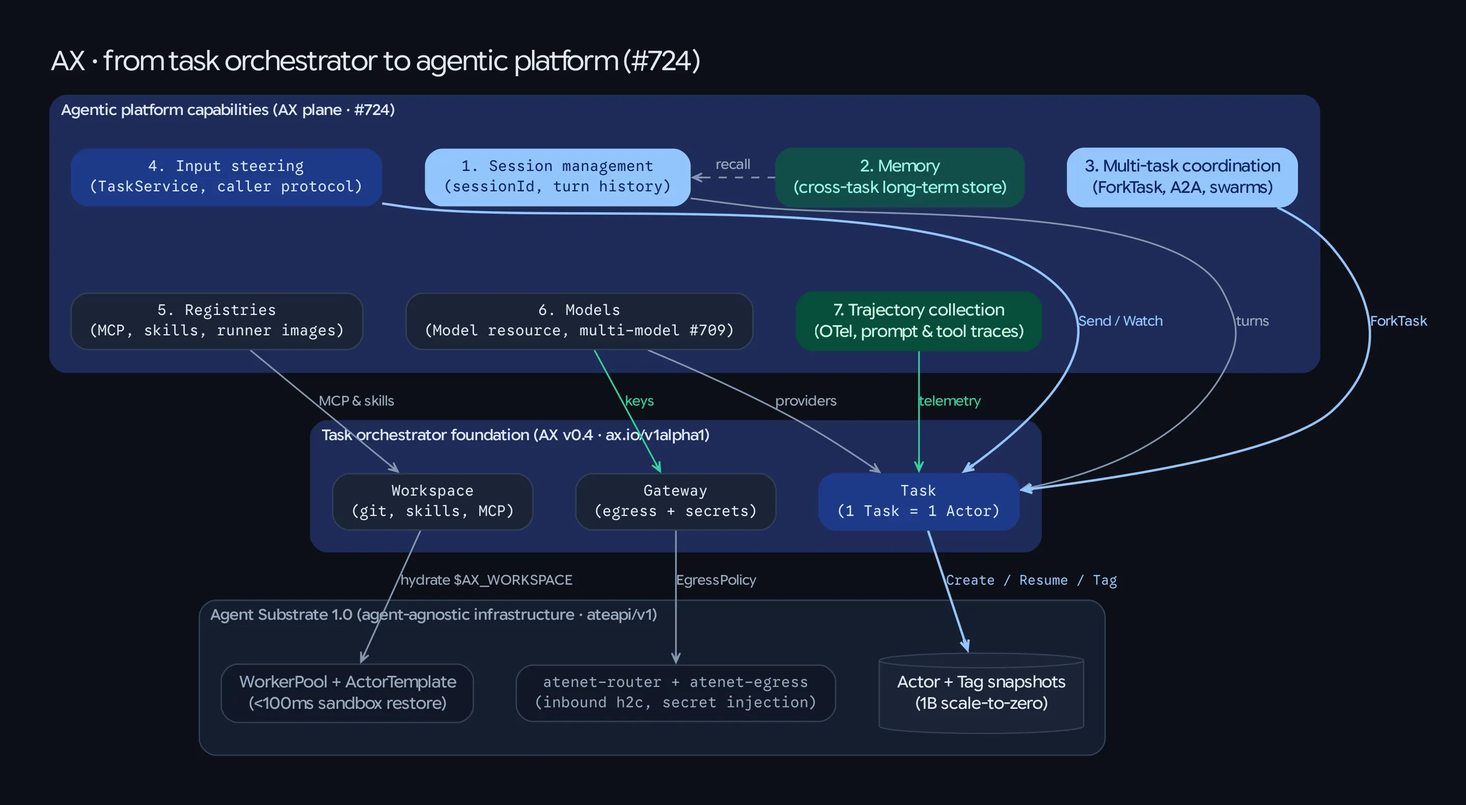
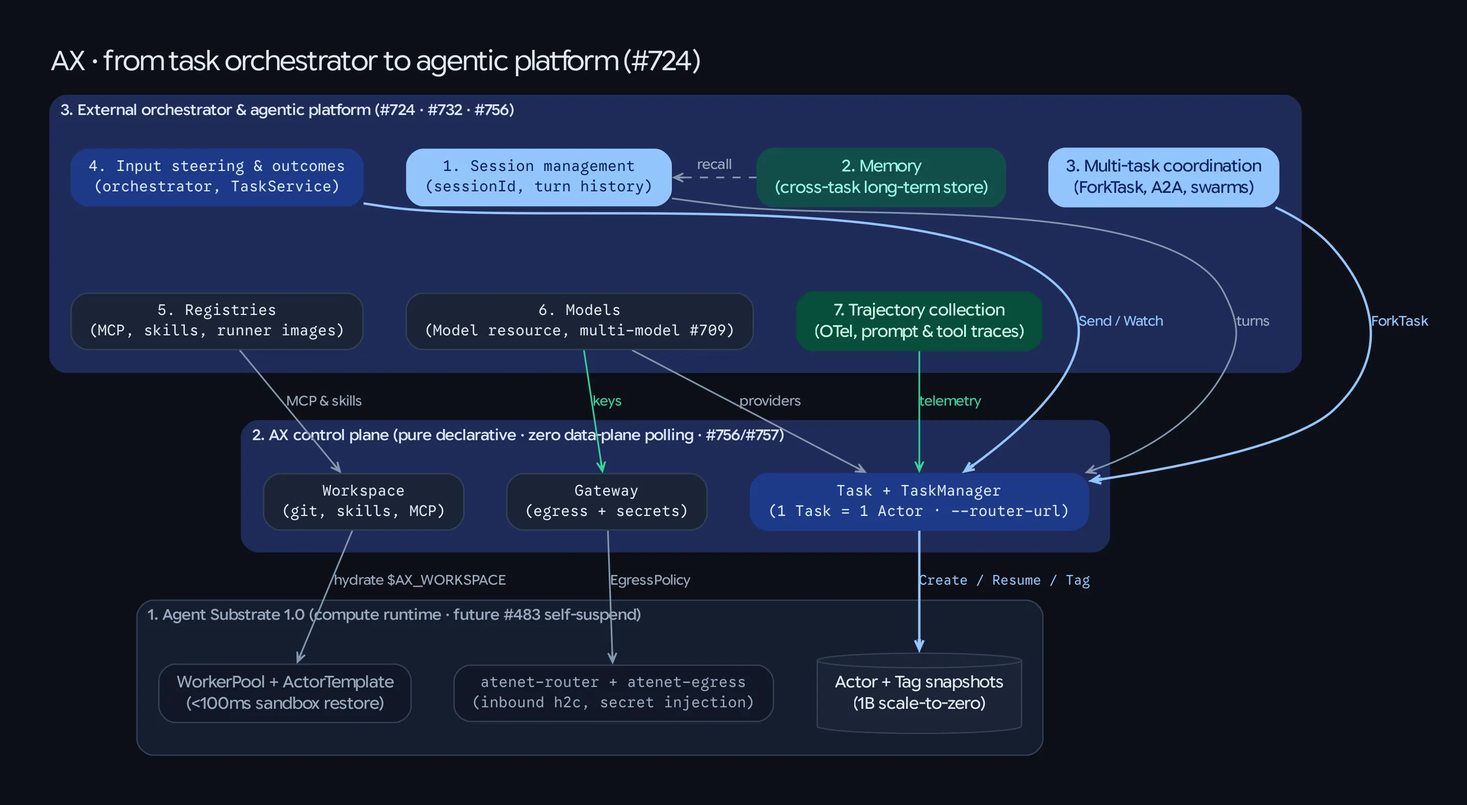
docs(concepts): refine to 3-layer stack for #756 (no TaskOutcome/Completed/Failed), #757 (--router-url), and substrate#483
Follows merged google/ax#756 (39172e4), #757 (d2e8a08), and closure of
#690/#743:
- diagrams/03-settled-task-lifecycle.dot: separates AX Control Plane
  TaskState (Queued, Running, Suspended, Crashed; zero data-plane
  polling) from External Orchestrator / Agent Protocol (Idle,
  RequiresAction, Completed/Failed).
- concepts/01, 04 & diagrams/05: sharpens the two-plane boundary into
  a 3-layer stack (Agent Substrate 1.0 -> AX Control Plane -> External
  Orchestrator & Agentic Platform).
- concepts/02, 03, README, okf/concepts.md: removes deleted FAILED=201
  and COMPLETED=202, notes --router-url on ax-server vs ATENET_ROUTER_ADDR
  on ax ssh (#757), and cites agent-substrate/substrate#483 (actor
  self-suspend).

diff --git a/concepts/04-from-orchestrator-to-platform.md b/concepts/04-from-orchestrator-to-platform.md
@@ -9,23 +9,23 @@
 
 ---
 
-## 1. The Clean Layer Boundary: Orthogonal Outside Task Execution
+## 1. The Clean Three-Layer Boundary (`#732`, `#756`)
 
-The shortest way to separate the two projects is by **where they meet—and where they don't** ([`google/ax#732`](https://github.com/google/ax/pull/732)):
+The shortest way to separate the layers is by **where they meet—and where they don't** ([`google/ax#732`](https://github.com/google/ax/pull/732), [`google/ax#756`](https://github.com/google/ax/pull/756)):
 
-- **Agent Substrate is the compute runtime layer.** It schedules untrusted sandboxes (`Actor`s) onto pre-warmed `WorkerPool` Pods from immutable container classes (`ActorTemplate`s), restores them in `<100 ms`, suspends/resumes and checkpoints them (`Tag`s), routes inbound HTTP/gRPC traffic by logical ID (`atenet-router`), and mediates outbound network access and secret header injection (`atenet-egress`). It deliberately knows *almost nothing* about agents—no prompts, LLMs, sessions, memory, MCP tools, skills, or multi-agent graphs.
-- **AX and Agent Substrate intersect *only* at task execution.** AX runs each `Task` on Substrate (`1 Task = 1 Actor`), and everything else in AX—declarative specs (`Task`, `Workspace`, `Model`, `Gateway`), runner/launcher contracts (`ax-runner` / `ax-launcher`, `#711`, `$AX_WORKSPACE` `#723`), sessions, memory, multi-task coordination, input steering, registries, models, and trajectory collection—is **orthogonal** to Substrate. Keeping that boundary narrow is also what lets AX stay portable across Google-internal infrastructure, customer Kubernetes clusters, on-prem environments, and zero-Kubernetes local runtimes (`ate-local`, `#712`).
+1. **Agent Substrate 1.0 (Compute Runtime):** Schedules untrusted sandboxes (`Actor`s) onto pre-warmed `WorkerPool` Pods from immutable container classes (`ActorTemplate`s), restores them in `<100 ms`, suspends/resumes and checkpoints them (`Tag`s), routes inbound HTTP/gRPC traffic by logical ID (`atenet-router`), mediates outbound network access and secret header injection (`atenet-egress`), and will allow finished actors to self-suspend (`agent-substrate/substrate#483`). It deliberately knows *almost nothing* about agents.
+2. **AX Control Plane (Pure Declarative Control):** Intersects Substrate *only* at task execution (`1 Task = 1 Actor`), managing declarative specs (`Task`, `Workspace`, `Model`, `Gateway`), `TaskManager` (`#730`), router-only task push (`--router-url`, `#700`/`#757`), runner/launcher contracts (`ax-runner` / `ax-launcher` `#734`, `$AX_WORKSPACE` `#723`), and control-plane `TaskState` (`QUEUED` + live `ActorState` + `Ready` conditions)—with **zero data-plane polling** (`#756`).
+3. **External Orchestrator & Agentic Platform:** Owns everything above raw execution—task outcomes, completion/retry policy, suspend/resume scheduling, sessions, memory, multi-task coordination, input steering, registries, models, and trajectory collection (`#724`, `#732`, `#756`). Keeping the control plane narrow is what lets AX stay portable across Google-internal infrastructure, customer Kubernetes clusters, on-prem environments, and zero-Kubernetes local runtimes (`ate-local`, `#712`).
 
 ### Responsibility Matrix
 
-| Concern | Agent Substrate `1.0` (`ateapi/v1`) | AX (`ax.io/v1alpha1`) |
-|---|---|---|
-| **Core primitive** | `ActorTemplate`, `Actor`, `Tag`, `WorkerPool`, `EgressPolicy` | `Task`, `Workspace`, `Model`, `Gateway` (+ emerging `Session`, `Memory`, `Agent`) |
-| **Isolation & scheduling** | gVisor / microVM sandboxes, OverlayFS image cache, `<100 ms` wake-on-request | Never schedules Pods or manages hypervisors; delegates execution via `Control` gRPC (`ate-local` swaps the backend locally) |
-| **Lifecycle & state** | Actor states (`RESUMING`, `RUNNING`, `SUSPENDING`, `SUSPENDED`, `CRASHED`, `DELETING`, `REVERTING`), durable disk snapshots, future self-suspend (`substrate#450`) | Aligns `TaskState < 200` 1-to-1 to Substrate `ActorState` (`#731`), cold-start resume invariant (`#683`); leaves higher-level progress/completion to callers & agent protocols rather than server-side status polling (`#690`/`#743`) |
-| **Network & secrets** | SPIFFE mTLS, `atenet-router` request parking, `atenet-egress` TLS secret swap | Translates declarative `Gateway` + `Model` credentials into per-actor `EgressPolicy` rules; reaches actors exclusively via `atenet-router` (`#700`); zero secrets in `spec.env` |
-| **Inside the sandbox** | Boots PID 1 from `ActorTemplate` image with zero opinion on contents | Mounts `/opt/ax/ax-runner` (`#620`), hydrates Git/skills/MCP into `$AX_WORKSPACE` (`#723`), invokes `/usr/local/bin/ax-launcher` (`#734`) |
-| **Multi-turn & agent semantics** | None—an actor is just an HTTP/gRPC endpoint on port 80 | Sessions, long-term memory, steering (`TaskService`), multi-task coordination, registries, models, and trajectories (`#724`) |
+| Concern | 1. Agent Substrate `1.0` (`ateapi/v1`) | 2. AX Control Plane (`ax.io/v1alpha1`) | 3. External Orchestrator / Platform (`#724`, `#756`) |
+|---|---|---|---|
+| **Core primitive** | `ActorTemplate`, `Actor`, `Tag`, `WorkerPool`, `EgressPolicy` | `Task`, `Workspace`, `Model`, `Gateway` | Orchestrators (AX Central, CI, A2A/MCP), `Session`, `Memory`, `Agent` |
+| **Isolation & scheduling** | gVisor / microVM sandboxes, OverlayFS image cache, `<100 ms` wake-on-request | Never schedules Pods; delegates via `Control` gRPC (`ate-local` swaps locally) | Decides *when* to create, fork, suspend, resume, or promote tasks |
+| **Lifecycle & state** | `ActorState` (`RESUMING`..`REVERTING`), durable snapshots, future self-suspend (`substrate#483`) | `QUEUED (200)` + live `ActorState` (`#731`) + `Ready` conditions; **zero data-plane fields or polling** (`#756`) | Owns `Idle`/`RequiresAction`/`Completed`/`Failed`, exit markers (`#738`), and retry policy |
+| **Network & secrets** | SPIFFE mTLS, `atenet-router` request parking, `atenet-egress` TLS secret swap | Translates `Gateway` + `Model` creds into `EgressPolicy`; pushes via `--router-url` (`#757`) | Talks to running sandboxes inbound over `atenet-router` port 80 (`ax ssh`, A2A, `TaskService`) |
+| **Inside the sandbox** | Boots PID 1 from `ActorTemplate` with zero opinion on contents | Mounts `/opt/ax/ax-runner` (`#620`), hydrates `$AX_WORKSPACE` (`#723`), invokes `ax-launcher` (`#734`) | Agent harnesses, skills, MCP servers, session files, and structured telemetry |
 
 ---
 
@@ -38,7 +38,7 @@ AX starts as a crisp task orchestrator because a cheap, suspendable, strongly is
 | **1** | **Session management** | Substrate snapshots raw bytes on disk; it has no notion of conversation turns, session IDs, or transcript history across `suspend`/`resume`. AX models multi-turn conversations (`spec.sessionId`, `AX_SESSION_FILE`) so users and harnesses resume coherent threads across cold process restarts (`#683`). | `docs/roadmap.md §5`, `#621` (`AX_SESSION_FILE`), `#670` (Hero Demo Step 3 Turn 2) | [`genkit/`](../genkit/README.md) (persisted A2A `contextId` across `suspend`/`resume`), [`hero-demo/`](../hero-demo/README.md) Step 3 |
 | **2** | **Memory** | Per-task `/workspace` snapshots and `Tag`s scope state to a single task lineage. Long-term **Memory** outlives any individual `Task`, giving agents scoped storage and retrieval shared across sessions and tasks without forcing every task to fork one monolithic filesystem. | `docs/roadmap.md §5` (*Sessions and Memory*) | Gap to prototype post-`#692`; complements per-task snapshots & OKF knowledge bundles (`okf/`) |
 | **3** | **Multi-task coordination** | Real agentic work fans out into trees and swarms—planning, delegating, retrying, and comparing speculative branches (`docs/concepts.md`). AX layers cheap task branching (`ForkTask` over Substrate `Tag`s), parent-child lineage (`status.parentTask`), and inter-task communication protocols (`Agent` specs, A2A/MCP bridges) atop Substrate's `atenet-router`. | `#669`/`#670` (`ForkTask`), `#696` (stateless `Workspace`), `docs/roadmap.md §2–3` | [`swarm/01..08`](../swarm/README.md), [`genkit/01–02`](../genkit/README.md) (EGM panel & in-cluster MCP$\rightarrow$A2A delegation), [`dgem/03`](../dgem/README.md) (specialist router) |
-| **4** | **Input steering** | Autonomous agents are rarely one-shot shell scripts: they pause for clarification, request tool approvals, or accept mid-run course corrections. Rather than polling a coarse status file from `ax-server` (`#690`/`#743`), AX keeps `TaskState` compute-aligned (`#731`) and layers caller/session-owned progress + structured inbound steering (`TaskService` `Send`/`List`/`Watch`, `#692`) over port 80—paired with future Substrate actor self-suspend (`substrate#450`) to reclaim idle sandboxes to 0 RAM and wake them transparently via `atenet-router`. | `#692` (`TaskService`), `#731` (`TaskState`), `#690`/`#738` (caller-owned completion), `docs/roadmap.md §3` | [`agy/02`](../agy/README.md) (cascading `dgem` `PreToolUse` gate + live `ax ssh` HITL), [`ax-central`](../okf/ax-central.md) inline HITL approval |
+| **4** | **Input steering** | Autonomous agents are rarely one-shot shell scripts: they pause for clarification, request tool approvals, or accept mid-run course corrections. Rather than polling a coarse status file from `ax-server` (`#690`/`#743` closed by `#756`), AX keeps `TaskState` pure control-plane (`#731`/`#756`) and leaves outcomes, progress, and structured inbound steering (`TaskService` `Send`/`List`/`Watch`, `#692`) to external orchestrators and agent protocols over port 80—paired with future Substrate actor self-suspend (`substrate#483`) to park finished sandboxes at 0 RAM and wake them transparently via `atenet-router`. | `#756` (external orchestrator boundary), `#692` (`TaskService`), `#731` (`TaskState`), `#738` (sandbox marker), `docs/roadmap.md §3` | [`agy/02`](../agy/README.md) (cascading `dgem` `PreToolUse` gate + live `ax ssh` HITL), [`ax-central`](../okf/ax-central.md) inline HITL approval |
 | **5** | **Registries** | Every organization needs governed catalogs of **MCP servers**, **skills** (`SKILL.md`), and **prebuilt runner/agent images** rather than ad-hoc URLs pasted into every prompt. AX resolves registries declaratively in `Workspace` and enforces policy/allowlists before code runs inside the sandbox. | `docs/concepts.md`, `docs/roadmap.md §1, §4, §7`, `#678` (release defaults) | [`genkit/workspace.yaml`](../genkit/workspace.yaml) (skills + MCP), [`ax-images`](../okf/ax-images.md) (`@sha256` multi-arch images), [`ax-central`](../okf/ax-central.md) Image Registry Catalog |
 | **6** | **Models** | Binding LLM providers, model IDs, sampling parameters, and rotated API keys as first-class cluster resources (`Model` in `ax.io/v1alpha1`) decouples agent code from credentials and enables **multi-model tasks** (e.g., a fast System-1 policy/router model paired with a frontier System-2 reasoner) with keys injected strictly at `atenet-egress`. | `docs/concepts.md`, `docs/roadmap.md §1`, **`#709`** (`repeated models` on `TaskSpec`) | [`dgem/`](../dgem/README.md) & [`agy/`](../agy/README.md) (System-1 DiffusionGemma policy model + System-2 Gemini/Antigravity coding model) |
 | **7** | **Trajectory collection** | Debugging, evaluating, and auditing agents requires structured **trajectories**—correlated prompts, model responses, tool invocations, process executions, and lifecycle state transitions—captured automatically at the `ax-runner` / `ax-server` layer via OpenTelemetry without custom instrumentation inside untrusted agent containers. | `docs/roadmap.md §4` (*Telemetry and Trajectory Collection*), `#665`/`#675` (`ax.task.state_changed`) | [`viz/`](../viz/README.md) (`SCHEMA.md`, `ax-trace`, Lit 3 replay UI, and [`FRICTION-REPORT.md`](../viz/FRICTION-REPORT.md) on `parent_task_id`, `correlation_id`, W3C `traceparent`) |

diff --git a/concepts/02-the-three-pivots.md b/concepts/02-the-three-pivots.md
@@ -33,7 +33,7 @@ Over three weeks in November 2026, AX tried three distinct architectures to brid
 ### Era 3: Shared `Profile` Template + Inbound Port-80 Push (`#688`, merged `2ede873`) *(Settled, Nov 20–24)*
 - **How it works:** Keep shared `Profile` `ActorTemplate`s (`ax-<hash>`), delete `:8081` and OIDC JWTs (`-6,252` LOC), and **flip the network arrow 180 degrees**:
   1. `ax-runner` boots in `AwaitPush` mode on port 80 (`/readyz` = `200`, `/readyz?check=workspace` = `503`) and invokes the image's default `/usr/local/bin/ax-launcher` (`#734`, renamed from `ax-harness`).
-  2. `ax-server` (`TaskManager.Resume`, renamed from `TaskReconciler` in `#730`) pushes `POST /runner/v1alpha1/task` **inbound** over port 80 **exclusively through `atenet-router`** (`ate-target-actor`, `#700`) and polls `/readyz?check=workspace`.
+  2. `ax-server` (`TaskManager.Resume`, renamed from `TaskReconciler` in `#730`) pushes `POST /runner/v1alpha1/task` **inbound** over port 80 **exclusively through `atenet-router`** (`ate-target-actor`, `#700`) via its explicit `--router-url` flag (`#757`; `ax ssh` continues to read `ATENET_ROUTER_ADDR`) and polls `/readyz?check=workspace`.
 - **Why Era 3 sticks:** It swims *with* Substrate's native inbound router path, restores strict zero-egress on tasks without a `Gateway`, and needs zero background queues across multiple `ax-server` replicas.
 
 > **Where This Goes Next — Substrate `v1.1` ([`agent-substrate/substrate#3876`](https://github.com/agent-substrate/substrate/issues/3876)):**
@@ -54,5 +54,5 @@ Alongside `#688`, `@rakyll` locked in three companion invariants that make the A
    Even though Substrate's README highlights gVisor RAM checkpointing, `SNAPSHOT_FIDELITY_MEMORY` is only a best-effort hint (and open TLS sockets to LLM APIs die across hibernation anyway). `#683` makes *"every resume is a cold process start over the snapshotted filesystem"* an explicit AX invariant—eliminating dual memory-vs-disk code paths.
 2. **Stateless `Workspace` + `ForkTask` Branching (`google/ax#696` & `#669`):**
    Giving `Workspace` its own hidden setup actor (`#592`/`#651`) froze time-sensitive MCP registries, skills, and Git refs at creation time and doubled lifecycle complexity. `#696` restores **"1 `Task` = 1 `Actor`"** (`ax-runner` resolves `Workspace` fresh on task startup) and directs "set up once, branch N times" workflows to explicit **`ax fork task`** (`#669`), which snapshots a parked task into a Substrate `Tag` and seeds child actors via `source_tag`—with optional `Gateway` narrowing on fork so a setup task can use repository-clone credentials that forked runtime tasks never inherit.
-3. **Compute-Aligned `TaskState` + Caller-Owned Completion (`google/ax#731`, `#690`, `#738`, `#692`):**
-   PR `#731` (`33b93cf`) aligned `TaskState` directly to Substrate's `ActorState` with an explicit wire-format boundary: enum values **`< 200`** mirror Substrate 1-to-1 (`RESUMING=1`, `RUNNING=2`, `SUSPENDING=3`, `SUSPENDED=4`, `CRASHED=5`, `DELETING=6`, `REVERTING=7`, read live and never stored), while values **`>= 200`** are AX-only (`QUEUED=200`, `FAILED=201`, `COMPLETED=202`). `WORKING`, `IDLE`, `REQUIRES_ACTION`, and `CANCELLED` were removed. After Draft PR `#743` showed how brittle a single-replica 5-second `ObserveStatus` polling loop on `ax-server` would be, upstream consensus on `#690` left task completion and richer turn states (`Idle`, `RequiresAction`, `Completed`) to **callers and the agent's own protocol** (e.g., `#738` checking a sandbox exit-code marker over `ax ssh`, and future `TaskService` `#692` steering)—keeping Substrate's `Actor` as the single source of truth for execution state, paired with future Substrate actor self-suspend (`agent-substrate/substrate#450`) to reclaim idle sandboxes to 0 RAM.
+3. **Pure Control-Plane `TaskState` & External Orchestrator Ownership (`google/ax#731`, `#756`, `#738`, `#692`):**
+   PR `#731` (`33b93cf`) aligned `TaskState < 200` 1-to-1 to Substrate's `ActorState` (`RESUMING=1`, `RUNNING=2`, `SUSPENDING=3`, `SUSPENDED=4`, `CRASHED=5`, `DELETING=6`, `REVERTING=7`, read live and never stored) and removed `WORKING`, `IDLE`, `REQUIRES_ACTION`, and `CANCELLED`. After Draft PR `#743` showed how brittle a single-replica 5-second `ObserveStatus` polling loop on `ax-server` would be, **`#756` (`39172e4`) closed the loop completely** (closing `#690` and `#743`): it removed `TASK_STATE_COMPLETED`, `TASK_STATE_FAILED`, `TaskOutcome` (`exitCode`/`output`), and `TaskStatus.previousFailure` from `TaskStatus`. `ax-server` now reports **only what it knows as a control plane**—`QUEUED (200)`, Substrate's live `ActorState`, and `Ready` conditions (provisioning errors leave `state` empty with `Ready=False` reason such as `ActorCreationFailed` or `ActorNotFound`)—freeing `ax-server` from all data-plane polling. Task outcomes, multi-turn steering (`TaskService` `#692`), and suspend/resume policy live in the **external orchestrator / agent protocol** (e.g., AX Central, A2A/MCP, or sandbox markers like `#738`), paired with future Substrate actor self-suspend (`agent-substrate/substrate#483`) to let finished agents park themselves from `Running` $\rightarrow$ `Suspended` (0 RAM).

diff --git a/okf/concepts.md b/okf/concepts.md
@@ -20,6 +20,9 @@ sources:
   - id: substrate-3876
     resource: https://github.com/agent-substrate/substrate/issues/3876
     title: "agent-substrate/substrate#3876: Per-actor environment variables / SystemInfo configuration"
+  - id: substrate-483
+    resource: https://github.com/agent-substrate/substrate/issues/483
+    title: "agent-substrate/substrate#483: Allow actors to self-suspend"
   - id: ax-pr-688
     resource: https://github.com/google/ax/pull/688
     title: "google/ax#688: Push tasks to runners and remove the runner pull protocol"
@@ -50,6 +53,12 @@ sources:
   - id: ax-pr-738
     resource: https://github.com/google/ax/pull/738
     title: "google/ax#738: hack/hero-demo: detect task completion inside the sandbox over ax ssh (caller-owned completion)"
+  - id: ax-pr-756
+    resource: https://github.com/google/ax/pull/756
+    title: "google/ax#756: api: drop data-plane fields from TaskStatus (Completed/Failed/TaskOutcome removed; external orchestrator boundary)"
+  - id: ax-pr-757
+    resource: https://github.com/google/ax/pull/757
+    title: "google/ax#757: ax-server: take the router URL from --router-url, not ATENET_ROUTER_ADDR"
   - id: ax-roadmap
     resource: https://github.com/google/ax/blob/main/docs/roadmap.md
     title: "google/ax docs/roadmap.md: Core Specs, Actor Architecture, Agentic Environment, Sessions & Memory, Trajectory Collection"
@@ -73,7 +82,7 @@ Visual architecture explainers and historical synthesis connecting [Track 1 (`at
 
 - `concepts/README.md` — 4 Golden Rules for AX developers and canonical upstream reference map.
 - `concepts/01-substrate-and-ax-mental-model.md` — Two-plane separation between Substrate `1.0` (`WorkerPool`, `ActorTemplate`, `Actor`, `atenet-router`, `atenet-egress`) and AX (`Task`, `Profile`, `Workspace`, `Model`, `Gateway`).
-- `concepts/02-the-three-pivots.md` — How Substrate `1.0`'s immutable `ActorTemplate` contract drove AX from Per-Task Templates $\rightarrow$ `:8081` Pull $\rightarrow$ `#688`/`#700` router-only Inbound Push + `#683` Cold Resume + `#731` compute-aligned `TaskState` + caller-owned completion (`#690`/`#738`),[^ax-pr-731][^ax-pr-738] and the `v1.1` `/run/ate` `SystemInfo` horizon (`substrate#3876`).[^substrate-3876]
+- `concepts/02-the-three-pivots.md` — How Substrate `1.0`'s immutable `ActorTemplate` contract drove AX from Per-Task Templates $\rightarrow$ `:8081` Pull $\rightarrow$ `#688`/`#700`/`#757` router-only Inbound Push + `#683` Cold Resume + `#731`/`#756` pure control-plane `TaskState` (freeing `ax-server` from data-plane polling; external orchestrators + `substrate#483` self-suspend),[^ax-pr-731][^ax-pr-756][^ax-pr-757][^ax-pr-738][^substrate-483] and the `v1.1` `/run/ate` `SystemInfo` horizon (`substrate#3876`).[^substrate-3876]
 - `concepts/03-datacenter-to-laptop.md` — Six empirical lessons from running 10–50 microVM swarm tasks on `ate-local` (`#602`)[^ax-issue-602] and alignment scorecard against upstream AX & Substrate.
 - `concepts/04-from-orchestrator-to-platform.md` — Explicit Substrate-vs-AX responsibility boundary and the 7 platform pillars from `google/ax#724` (Sessions, Memory, Multi-task coordination, Input steering, Registries, Models, Trajectory collection) mapped to `docs/roadmap.md` and `ax-experiments` prototypes.
 - `concepts/diagrams/*.dot` & `*-{light,dark}.webp` — Five dual-theme Lustrous Graphviz schematics.
@@ -81,6 +90,7 @@ Visual architecture explainers and historical synthesis connecting [Track 1 (`at
 [^substrate-arch]: Agent Substrate 1.0 Architecture (1B actors, <100ms wakeup, WorkerPools, ActorTemplates)
 [^substrate-v1]: Agent Substrate v1.0.0 Release Notes (2026-11-05)
 [^substrate-3876]: agent-substrate/substrate#3876: Per-actor environment variables / SystemInfo configuration
+[^substrate-483]: agent-substrate/substrate#483: Allow actors to self-suspend
 [^ax-pr-688]: google/ax#688: Push tasks to runners and remove the runner pull protocol
 [^ax-issue-683]: google/ax#683: Never assume tasks resume with memory (cold-start invariant)
 [^ax-issue-696]: google/ax#696: Don't split Workspace into its own actor; use ForkTask for branching
@@ -91,4 +101,6 @@ Visual architecture explainers and historical synthesis connecting [Track 1 (`at
 [^ax-pr-732]: google/ax#732: docs: explain how AX relates to Agent Substrate (orthogonal outside task execution; portable across Google, customer clusters, and on-prem)
 [^ax-pr-731]: google/ax#731: api: align TaskState (< 200) 1-to-1 with Substrate ActorState (Running/Suspended/Crashed)
 [^ax-pr-738]: google/ax#738: hack/hero-demo: detect task completion inside the sandbox over ax ssh (caller-owned completion)
+[^ax-pr-756]: google/ax#756: api: drop data-plane fields from TaskStatus (Completed/Failed/TaskOutcome removed; external orchestrator boundary)
+[^ax-pr-757]: google/ax#757: ax-server: take the router URL from --router-url, not ATENET_ROUTER_ADDR
 [^ax-roadmap]: google/ax docs/roadmap.md

diff --git a/concepts/README.md b/concepts/README.md
@@ -46,4 +46,4 @@ Developing on **[AX (`google/ax`)](https://github.com/google/ax)** becomes drama
 
 ### AX (`google/ax`)
 - [**Control Plane Design** (`DESIGN.md`)](https://github.com/google/ax/blob/main/DESIGN.md) · [**Core Concepts** (`docs/concepts.md`)](https://github.com/google/ax/blob/main/docs/concepts.md) · [**Sandbox & Runner Contract** (`docs/sandbox.md`, `docs/runner.md`)](https://github.com/google/ax/blob/main/docs/runner.md) · [**Networking** (`docs/networking.md`)](https://github.com/google/ax/blob/main/docs/networking.md).
-- **Key Architectural Decisions:** [`#563`](https://github.com/google/ax/issues/563) (`v1alpha1` `Profile`/`Gateway`/`Tag`), [`#603`](https://github.com/google/ax/pull/603), [`#689`](https://github.com/google/ax/issues/689) & [`#712`](https://github.com/google/ax/issues/712) (`ax local` Kind, 3–5m cold start & Docker-free runtimes), [`#620`](https://github.com/google/ax/pull/620) (`/opt/ax` runner volume), [`#669`](https://github.com/google/ax/pull/669) (`ForkTask`), [`#683`](https://github.com/google/ax/issues/683) (cold-start resume invariant), [`#688`](https://github.com/google/ax/pull/688) & [`#700`](https://github.com/google/ax/pull/700) (router-only inbound push runner), [`#690`](https://github.com/google/ax/issues/690) & [`#738`](https://github.com/google/ax/pull/738) (caller-owned completion; no 5s status polling), [`#692`](https://github.com/google/ax/issues/692) (`TaskService` steering), [`#696`](https://github.com/google/ax/issues/696) (stateless `Workspace`), [`#709`](https://github.com/google/ax/issues/709) (multi-model `TaskSpec`), [`#723`](https://github.com/google/ax/issues/723) (`$AX_WORKSPACE`), [`#724`](https://github.com/google/ax/issues/724) & [`#732`](https://github.com/google/ax/pull/732) (orthogonal boundary & portable agentic platform vision), [`#730`](https://github.com/google/ax/pull/730) (`TaskManager`), [`#731`](https://github.com/google/ax/pull/731) (`TaskState` aligned to Substrate `ActorState`), [`#734`](https://github.com/google/ax/pull/734) (`ax-launcher`).
+- **Key Architectural Decisions:** [`#563`](https://github.com/google/ax/issues/563) (`v1alpha1` `Profile`/`Gateway`/`Tag`), [`#603`](https://github.com/google/ax/pull/603), [`#689`](https://github.com/google/ax/issues/689) & [`#712`](https://github.com/google/ax/issues/712) (`ax local` Kind, 3–5m cold start & Docker-free runtimes), [`#620`](https://github.com/google/ax/pull/620) (`/opt/ax` runner volume), [`#669`](https://github.com/google/ax/pull/669) (`ForkTask`), [`#683`](https://github.com/google/ax/issues/683) (cold-start resume invariant), [`#688`](https://github.com/google/ax/pull/688) & [`#700`](https://github.com/google/ax/pull/700) (router-only inbound push runner), [`#690`](https://github.com/google/ax/issues/690) & [`#738`](https://github.com/google/ax/pull/738) (caller-owned completion; no 5s status polling), [`#692`](https://github.com/google/ax/issues/692) (`TaskService` steering), [`#696`](https://github.com/google/ax/issues/696) (stateless `Workspace`), [`#709`](https://github.com/google/ax/issues/709) (multi-model `TaskSpec`), [`#723`](https://github.com/google/ax/issues/723) (`$AX_WORKSPACE`), [`#724`](https://github.com/google/ax/issues/724) & [`#732`](https://github.com/google/ax/pull/732) (orthogonal boundary & portable agentic platform vision), [`#730`](https://github.com/google/ax/pull/730) (`TaskManager`), [`#731`](https://github.com/google/ax/pull/731) & [`#756`](https://github.com/google/ax/pull/756) (pure control-plane `TaskState`; data-plane outcomes owned by external orchestrators), [`#734`](https://github.com/google/ax/pull/734) (`ax-launcher`), [`#757`](https://github.com/google/ax/pull/757) (`--router-url` on `ax-server`).

diff --git a/concepts/03-datacenter-to-laptop.md b/concepts/03-datacenter-to-laptop.md
@@ -42,7 +42,7 @@ Even with **1 human tenant** on a laptop, multi-agent workflows (`swarm/03-seed-
 
 ### Learning 4: Logical Actor Routing (`atenet-router`) Abstracts VM Network Asymmetry
 - **What happened:** Apple `container` gives every microVM a routable macOS `vmnet` IP (`192.168.64.x:80`), whereas rootless `podman` on macOS runs inside a `libkrun` VM reachable only via published host ports (`127.0.0.1:<ephemeralPort>`). Embedding an HTTP/1.1 + `h2c` `atenet-router` (`ate-target-actor` header) inside `ate-local` made `ax ssh`, `/readyz`, A2A JSON-RPC, and `#688` task pushes work identically across both runtimes.
-- **Alignment:** **100% aligned** with AX `#587` (dropping `TaskStatus.worker_ip` from `ax ssh`), `#688` (`actorhttp.go` inbound push), and `#700` (reaching actors exclusively through `atenet-router`).
+- **Alignment:** **100% aligned** with AX `#587` (dropping `TaskStatus.worker_ip` from `ax ssh`), `#688` (`actorhttp.go` inbound push), `#700` (reaching actors exclusively through `atenet-router`), and `#757` (`ax-server` taking `--router-url` explicitly while `ax ssh` continues to read `ATENET_ROUTER_ADDR`).
 
 ### Learning 5: Hypervisor Guest-Init Drift Mirrors Substrate's `SandboxConfig`
 - **What happened:** Upgrading the macOS `container` CLI (`0.10` $\rightarrow$ `0.12`) broke container startup when `ghcr.io/apple/containerization/vminit:<tag>` drifted from cached local images, requiring `detectLocalVminitImage` fallback in `internal/atelocal/runner.go`.
@@ -62,7 +62,7 @@ Even with **1 human tenant** on a laptop, multi-agent workflows (`swarm/03-seed-
 | Axis | Early Exploration (`ax-experiments`) | Settled Upstream (`Substrate 1.0` + `AX #683/#688/#696`) | Verdict |
 |---|---|---|---|
 | **Resume semantics** | Cold process restart over `.tar.gz` `/workspace` | Cold start over snapshotted filesystem (`#683`) | **Exact match** |
-| **Control -> Runner direction** | Inbound HTTP/gRPC through `atenet-router` | Router-only inbound HTTP push on port 80 (`#688`, `#700`) + `TaskService` (`#692`) | **Exact match** *(after upstream reverted Era 2 Pull)* |
+| **Control -> Runner direction** | Inbound HTTP/gRPC through `atenet-router` | Router-only inbound HTTP push on port 80 (`#688`, `#700`, `--router-url` `#757`) + zero data-plane polling (`#756`) | **Exact match** *(after upstream reverted Era 2 Pull & `#743` polling)* |
 | **Stock image execution** | Host bind-mount of arm64 `ax-runner` | Read-only `/opt/ax/ax-runner` OCI image volume (`#620`) | **Converged** |
 | **Reusable setup / branching** | `Tag` snapshots (`CreateTag` + `source_tag`) | `ForkTask` (`#669`) + stateless `Workspace` (`#696`) | **Exact match** |
 | **Multi-turn scale-to-zero** | A2A `contextId` on `/workspace` + `Wake & Prompt` | `TaskService` (`Send`/`List`/`Watch` + idle suspend, `#692`) | **Prefigured `#692`** |

diff --git a/concepts/01-substrate-and-ax-mental-model.md b/concepts/01-substrate-and-ax-mental-model.md
@@ -49,4 +49,9 @@ Agent Substrate is deliberately **agent-framework agnostic** (`Persona #2/#3` in
 | **`ForkTask`** (`ax fork`) | Branch a follow-up task from a parked task's filesystem state (`#669`) | `SuspendActor` $\rightarrow$ `CreateTag` $\rightarrow$ `CreateActor(source_tag)`. |
 
 ### Why AX Uses Its Own PostgreSQL Instead of Kubernetes CRDs (`DESIGN.md`)
-If AX stored `Task`s as Kubernetes CRDs, `etcd` would cap AX at ~50,000 tasks—throwing away 99.99% of Substrate's 1B-actor capacity. Instead, `ax-server` stores only **what AX owns** (declarative specs and per-resource distributed lease locks) in PostgreSQL, and reads live `Actor` state and `actorUid` directly from Substrate (`#515`, `#556`, `#695`).
+If AX stored `Task`s as Kubernetes CRDs, `etcd` would cap AX at ~50,000 tasks—throwing away 99.99% of Substrate's 1B-actor capacity. Instead, `ax-server` stores only **what AX owns** (declarative specs and per-resource distributed lease locks) in PostgreSQL, reads live `Actor` state and `actorUid` directly from Substrate (`#515`, `#556`, `#695`, `#731`), and drops all data-plane outcomes from `TaskStatus` (`#756`).
+
+### The Resulting Three-Layer Stack (`#732`, `#756`)
+1. **Agent Substrate 1.0 (Compute Runtime):** Actor isolation, `ActorState`, `Tag` snapshots, `atenet-router`, `atenet-egress`, and future actor self-suspend (`agent-substrate/substrate#483`).
+2. **AX Control Plane (Pure Declarative Control):** `Task`, `Workspace`, `Model`, `Gateway`, `TaskManager` (`#730`), `--router-url` (`#757`), and `Ready` conditions—with **zero data-plane polling** (`#756`).
+3. **External Orchestrator / Agent Platform:** Task outcomes, completion/retry policy, multi-turn steering, suspend/resume decisions, and trajectory collection (`#724`, `#732`, `#756`). See [Document 4](./04-from-orchestrator-to-platform.md).
